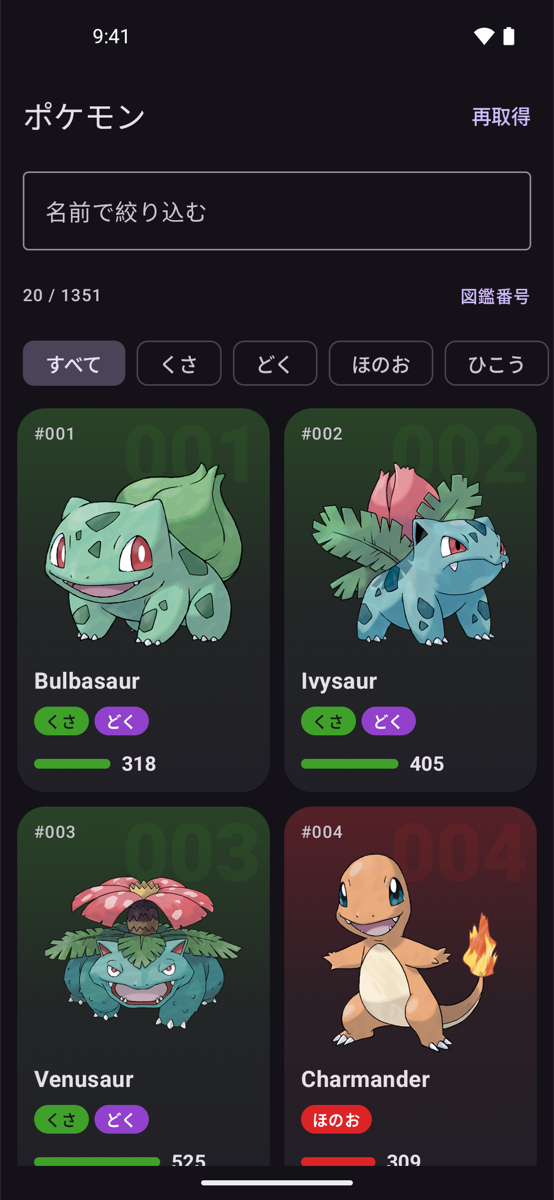
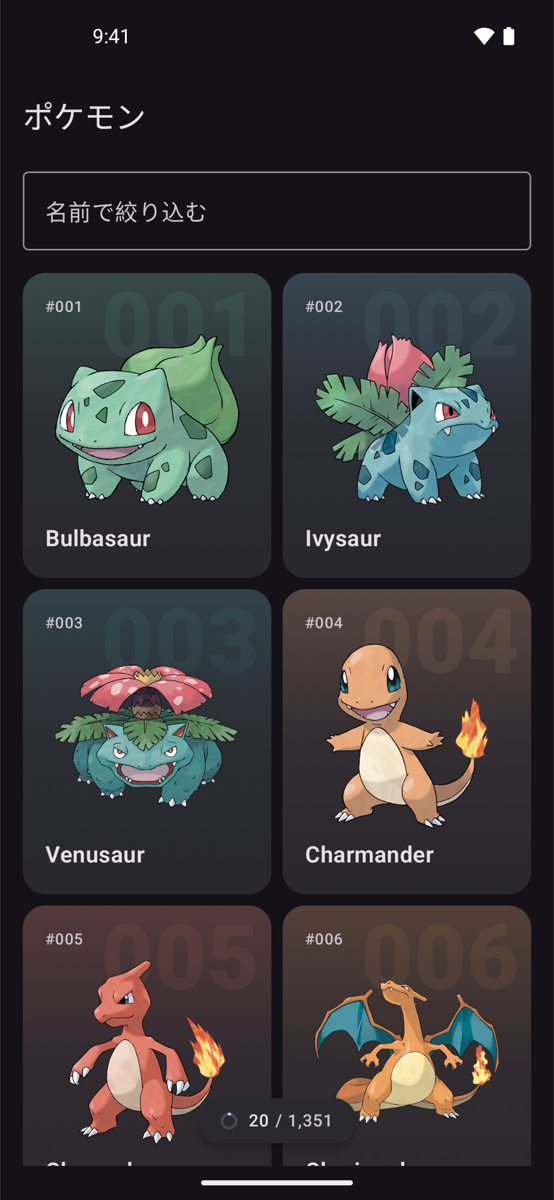
Show the current list in light and dark side by side
The demo GIF and the description still showed type filters, sorting
and a detail sheet the app no longer has, so they go, and the two
screenshots sit next to each other instead of switching with the
viewer's theme.

diff --git a/README.md b/README.md
@@ -12,18 +12,12 @@ Jetpack Compose と Kotlin Multiplatform で作る、ポケモン図鑑アプリ
 ![Coroutines](https://img.shields.io/badge/Coroutines-7F52FF?logo=kotlin&logoColor=white)
 ![Kotlin Multiplatform](https://img.shields.io/badge/Kotlin_Multiplatform-7F52FF?logo=kotlin&logoColor=white)
 
-<picture>
-  <source media="(prefers-color-scheme: dark)" srcset="docs/images/demo-dark.gif">
-  <img src="docs/images/demo.gif" width="260" alt="スクロールで続きを読み込み、タイプで絞り込む">
-</picture>
-<picture>
-  <source media="(prefers-color-scheme: dark)" srcset="docs/images/list-dark.png">
-  <img src="docs/images/list-light.png" width="260" alt="ポケモンの一覧">
-</picture>
+<img src="docs/images/list-light.png" width="260" alt="ポケモンの一覧（ライトモード）">
+<img src="docs/images/list-dark.png" width="260" alt="ポケモンの一覧（ダークモード）">
 
 </div>
 
-PokeAPI のポケモンを、無限スクロール・タイプでの絞り込み・並び替え・詳細シートで見られます。
+PokeAPI のポケモンを、無限スクロールと名前での絞り込みで見られます。
 
 ## 3 つのリポジトリ
 
@@ -54,7 +48,7 @@ flowchart LR
 | モジュール | 役割 |
 | --- | --- |
 | `:core:screen` | 画面の土台（読み込み状態の管理）と、機能に依らない UI 部品 |
-| `:feature:home` | 一覧と詳細の画面 |
+| `:feature:home` | 一覧の画面 |
 | `:app` | 画面の組み立て |
 
 ## 動かし方
